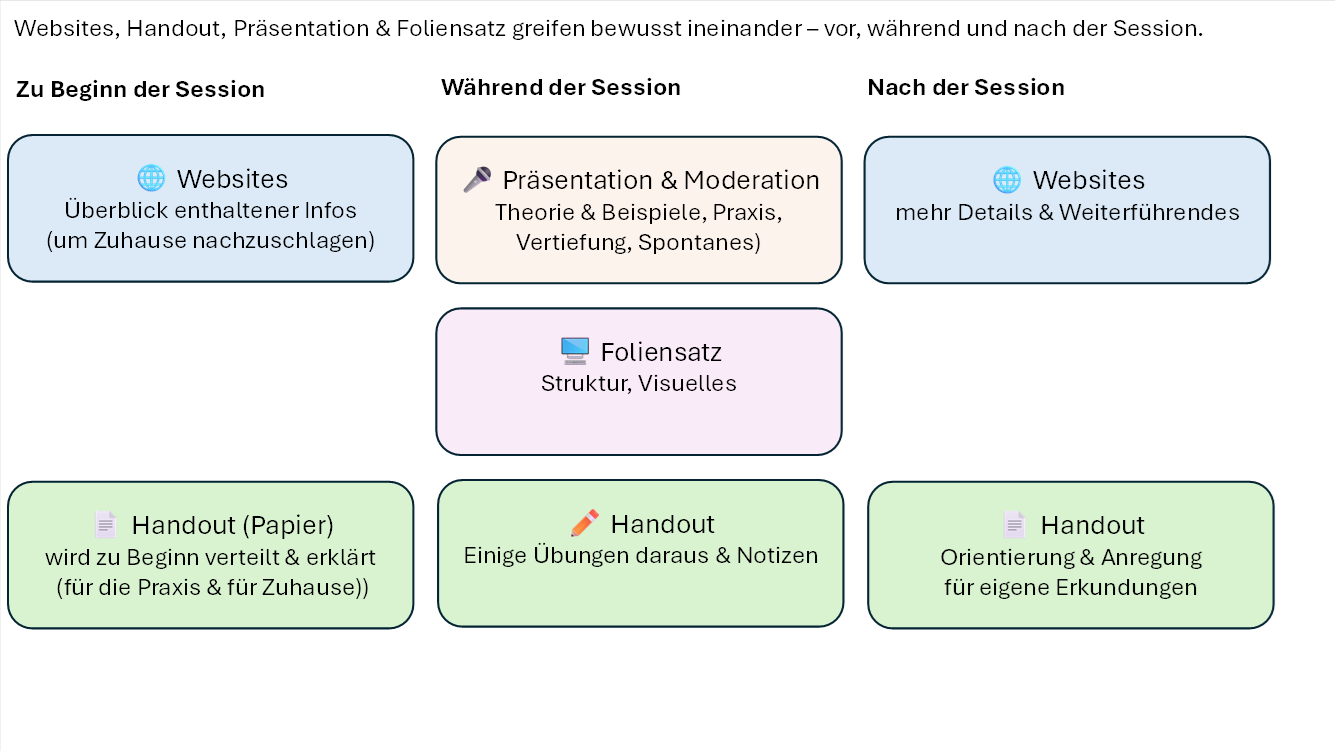
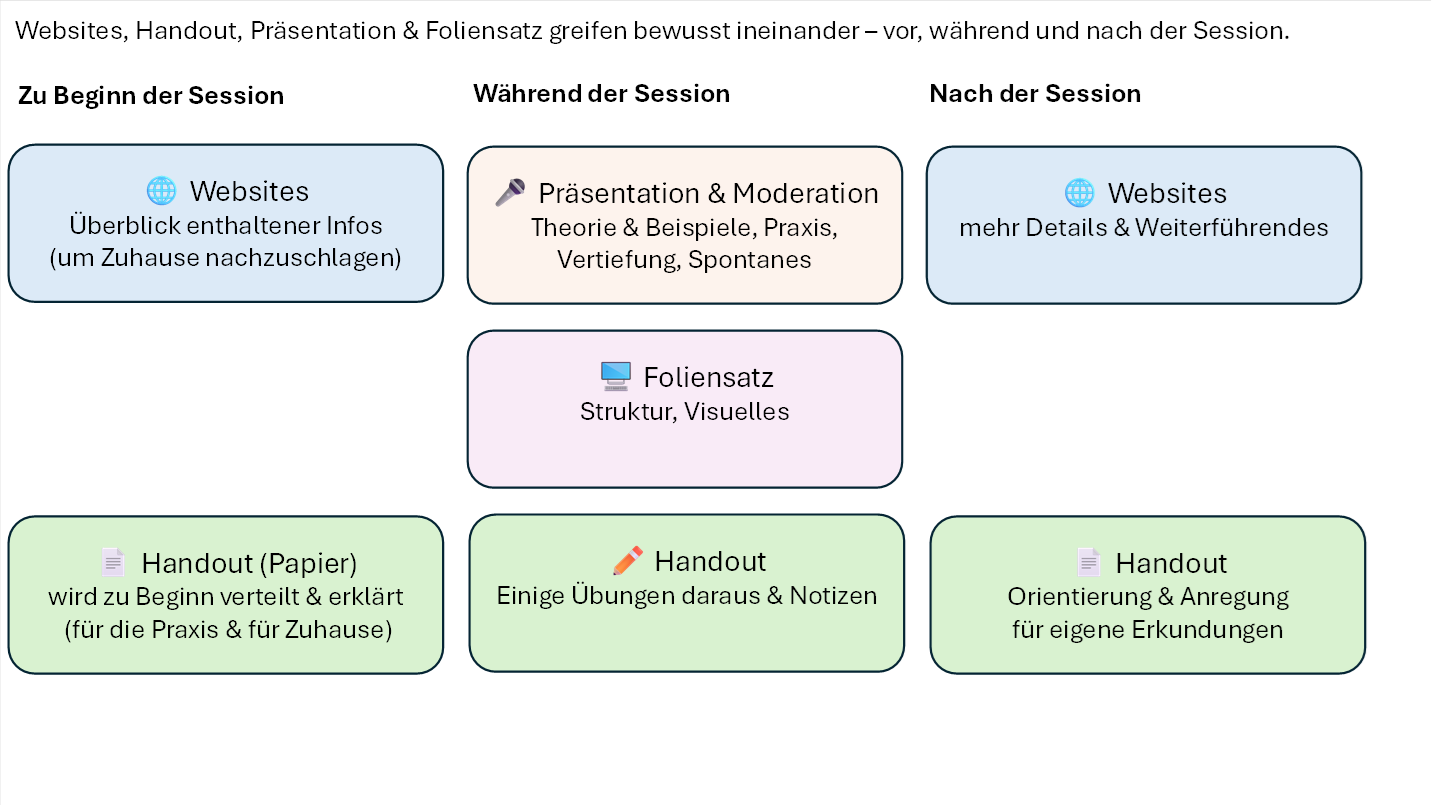
Add files via upload

diff --git a/index.html b/index.html
@@ -100,7 +100,7 @@ zu KI-Veranstaltungen von Franz Jankowski</span></a></h1>
 
 <p class=MsoNormal style='border:none;padding:0cm'><span style='font-size:16.0pt;
 line-height:115%'>Anlaufstelle für ergänzende Informationen<b>   </b><span
-style='color:#A6A6A6'>v0.6f</span></span></p>
+style='color:#A6A6A6'>v0.7</span></span></p>
 
 </div>
 
@@ -211,7 +211,7 @@ Handouts verwendete Links</a><a name="_Toc213972647"></a></h1>
 <h1 style='margin-left:18.0pt;text-indent:-18.0pt'>2.<span style='font:7.0pt "Times New Roman"'>&nbsp;
 </span> <a name="_Toc214479437">Wie meine KI-Sessions aufgebaut sind</a></h1>
 
-<p class=MsoNormal><img border=0 width=891 height=501
+<p class=MsoNormal><img border=0 width=955 height=537
 src="index-Dateien/image001.png"></p>
 
 <h1 style='margin-left:18.0pt;text-indent:-18.0pt'><a name="_Toc214479438">3.<span
